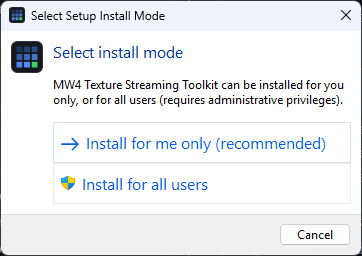
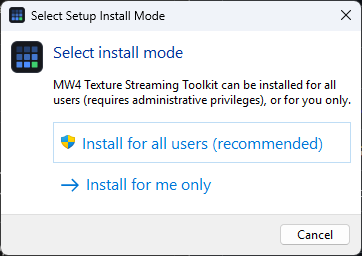
Installer: install for all users by default
The program runs as administrator, so its files should be somewhere only an
administrator can change. Setup now uses PrivilegesRequired=admin with the
install-mode dialog kept: all users (Program Files) is the recommended
choice, "for me only" stays an option. Silent installs default to all
users; /CURRENTUSER selects the current user.

test_installer.py takes --current-user or --all-users and build.bat runs
both (the all-users run needs an elevated window and says so when it skips).
Both refuse to run when a real install or its shortcuts are in the way. The
setup information page, docs, changelog, version 0.2.5-beta and the four
installer screenshots are updated.

diff --git a/packaging/test_installer.py b/packaging/test_installer.py
@@ -1,13 +1,16 @@
 #!/usr/bin/env python3
-"""test_installer.py - installs the built Setup.exe silently (per user, into a temp folder), checks the result, upgrades over it with the hosts block switched on, uninstalls,
-and checks that nothing is left behind. build.bat runs it after the build; by hand:
+"""test_installer.py - installs the built Setup.exe silently (into a temp folder), checks the result, upgrades over it with the hosts block switched on, uninstalls,
+and checks that nothing is left behind. build.bat runs it after the build, once for each way of installing; by hand:
 
-  python packaging/test_installer.py packaging/out/MW4-Texture-Streaming-<version>-Setup.exe
+  python packaging/test_installer.py packaging/out/MW4-Texture-Streaming-<version>-Setup.exe [--current-user | --all-users]
+
+--current-user (the default here) installs for the current user only; --all-users installs for everyone (the installer's default for people) and needs administrator rights,
+so it is skipped (exit 0, with a note) when this window is not elevated.
 
 It never touches the real hosts file or settings: CCS_HOSTS_PATH and CCS_WORK point at temp files, and the installer's own hooks inherit them. The only things outside the
 temp folder are the ones a real install makes (Start menu folder, desktop shortcut, uninstall entry), and they are removed again by the uninstall that this test runs.
 """
-import json, os, shutil, subprocess, sys, tempfile, time, winreg
+import ctypes, json, os, shutil, subprocess, sys, tempfile, time, winreg
 
 APPID = '{6B0F1F2E-7D3A-4C58-9E21-4A9D5C7B3E10}_is1'                       # installer.iss AppId
 APP = 'MW4 Texture Streaming'
@@ -20,9 +23,9 @@ def check(ok, what, detail=''):
         raise SystemExit(f'installer test failed: {what}')
 
 
-def uninstall_entry():
+def uninstall_entry(hive=winreg.HKEY_CURRENT_USER):
     try:
-        with winreg.OpenKey(winreg.HKEY_CURRENT_USER, r'Software\Microsoft\Windows\CurrentVersion\Uninstall' + '\\' + APPID) as k:
+        with winreg.OpenKey(hive, r'Software\Microsoft\Windows\CurrentVersion\Uninstall' + '\\' + APPID) as k:
             return dict(version=winreg.QueryValueEx(k, 'DisplayVersion')[0], uninstall=winreg.QueryValueEx(k, 'UninstallString')[0], where=winreg.QueryValueEx(k, 'InstallLocation')[0])
     except OSError:
         return None
@@ -33,15 +36,21 @@ def shell_folder(name):
 
 
 def main():
-    if len(sys.argv) != 2 or not os.path.exists(sys.argv[1]): sys.exit(__doc__)
+    args = [a for a in sys.argv[1:] if not a.startswith('--')]; flags = [a for a in sys.argv[1:] if a.startswith('--')]
+    if len(args) != 1 or not os.path.exists(args[0]) or any(f not in ('--current-user', '--all-users') for f in flags) or len(flags) > 1: sys.exit(__doc__)
+    allusers = flags == ['--all-users']; who = 'all users' if allusers else 'the current user'; hive = winreg.HKEY_LOCAL_MACHINE if allusers else winreg.HKEY_CURRENT_USER
+    if allusers and not ctypes.windll.shell32.IsUserAnAdmin(): print('skip: the all-users install needs administrator rights and this window has none'); return
+    sys.argv = [sys.argv[0], args[0]]; entry = lambda: uninstall_entry(hive)
     setup = os.path.abspath(sys.argv[1]); tmp = tempfile.mkdtemp(prefix='ccs-inst-'); app = os.path.join(tmp, 'program files', APP)         # a path with spaces, as real ones have
     hosts = os.path.join(tmp, 'hosts'); open(hosts, 'w').write('127.0.0.1 localhost\r\n'); data = os.path.join(tmp, 'data')
     env = dict(os.environ, CCS_HOSTS_PATH=hosts, CCS_WORK=data, PYTHONIOENCODING='utf-8')
-    if uninstall_entry(): sys.exit('an installed copy exists already: uninstall it first so this test does not touch it')
-    menu = os.path.join(os.environ['APPDATA'], 'Microsoft', 'Windows', 'Start Menu', 'Programs', APP); desk = os.path.join(shell_folder('Desktop'), APP + '.lnk')
+    if uninstall_entry(winreg.HKEY_CURRENT_USER) or uninstall_entry(winreg.HKEY_LOCAL_MACHINE): sys.exit('an installed copy exists already: uninstall it first so this test does not touch it')
+    if allusers: menu = os.path.join(os.environ['ProgramData'], 'Microsoft', 'Windows', 'Start Menu', 'Programs', APP); desk = os.path.join(os.environ.get('PUBLIC', 'C:\\Users\\Public'), 'Desktop', APP + '.lnk')
+    else: menu = os.path.join(os.environ['APPDATA'], 'Microsoft', 'Windows', 'Start Menu', 'Programs', APP); desk = os.path.join(shell_folder('Desktop'), APP + '.lnk')
+    if os.path.exists(menu) or os.path.exists(desk): sys.exit(f'shortcuts of an installed copy exist already ({menu} / {desk}): move them aside so this test does not delete them')
     def install(tag):
         log = os.path.join(tmp, tag + '.log')
-        try: return subprocess.run([setup, '/VERYSILENT', '/SUPPRESSMSGBOXES', '/NORESTART', f'/DIR={app}', f'/LOG={log}'], env=env, timeout=150).returncode
+        try: return subprocess.run([setup, '/VERYSILENT', '/SUPPRESSMSGBOXES', '/NORESTART', '/ALLUSERS' if allusers else '/CURRENTUSER', f'/DIR={app}', f'/LOG={log}'], env=env, timeout=150).returncode
         except subprocess.TimeoutExpired:                                         # a hang: show where it is stuck instead of waiting for the CI time limit
             print(f'setup ({tag}) did not finish in 150 s; its log:'); print(open(log, errors='replace').read()[-3500:] if os.path.exists(log) else '(no log)')
             ps = "Get-CimInstance Win32_Process | Where-Object { $_.Name -match 'ccs-cli|MW4|ipconfig|tasklist|netstat|_unins|Setup|python' } | Select-Object ProcessId,ParentProcessId,Name,CommandLine | Format-List | Out-String -Width 300"
@@ -49,11 +58,11 @@ def main():
             subprocess.run(['taskkill', '/F', '/T', '/IM', os.path.basename(setup)], capture_output=True); subprocess.run(['taskkill', '/F', '/T', '/IM', '_unins.tmp'], capture_output=True)
             raise SystemExit(f'installer test failed: setup ({tag}) hung')
     try:
-        print('install'); check(install('install') == 0, 'setup exits 0 (silent, per user, no administrator rights)')
+        print(f'install for {who}'); check(install('install') == 0, f'setup exits 0 (silent, for {who})')
         exe, cli = os.path.join(app, APP + '.exe'), os.path.join(app, 'ccs-cli.exe')
         for rel in (APP + '.exe', 'ccs-cli.exe', 'README.md', 'LICENSE', 'DISCLAIMER.md', 'Restore hosts.bat', 'START HERE.txt', os.path.join('docs', 'GETTING-STARTED.md')): check(os.path.exists(os.path.join(app, rel)), f'installed: {rel}')
         check(not os.path.exists(os.path.join(app, 'portable.txt')), 'no portable.txt (an installed copy keeps its data in the local app data folder)')
-        e = uninstall_entry(); check(bool(e) and e['version'] and os.path.normcase(e['where'].rstrip('\\')) == os.path.normcase(app), f"uninstall entry (Apps & features) for version {e and e['version']}")
+        e = entry(); check(bool(e) and e['version'] and os.path.normcase(e['where'].rstrip('\\')) == os.path.normcase(app), f"uninstall entry (Apps & features) for version {e and e['version']}")
         check(os.path.isdir(menu) and os.path.exists(os.path.join(menu, APP + '.lnk')) and os.path.exists(os.path.join(menu, 'Restore hosts.lnk')), 'Start menu entries')
         check(os.path.exists(desk), 'desktop shortcut (the default task)')
         r = subprocess.run([cli, '--version'], capture_output=True, text=True, env=env, timeout=60); check(e['version'] in r.stdout, 'the installed program runs and reports the same version')
@@ -63,7 +72,7 @@ def main():
         subprocess.run([cli, '--ccs-run', 'ccshosts', 'apply', '--no-flush'], env=env, timeout=60, capture_output=True); check('cod-assets' in open(hosts).read(), 'precondition: hosts block present')
         check(install('upgrade') == 0, 'setup over an existing install exits 0')
         check('cod-assets' not in open(hosts).read() and 'localhost' in open(hosts).read(), 'setup put the hosts file back before replacing files (and kept other lines)')
-        check(os.path.exists(exe) and uninstall_entry() is not None, 'still installed after the upgrade')
+        check(os.path.exists(exe) and entry() is not None, 'still installed after the upgrade')
 
         print('uninstall with the hosts block on')
         subprocess.run([cli, '--ccs-run', 'ccshosts', 'apply', '--no-flush'], env=env, timeout=60, capture_output=True); os.makedirs(data, exist_ok=True); open(os.path.join(data, 'gui_settings.json'), 'w').write('{}')
@@ -72,12 +81,12 @@ def main():
             if not os.path.exists(app): break
             time.sleep(0.5)
         check(not os.path.exists(app), 'program folder is gone')
-        check(uninstall_entry() is None, 'uninstall entry is gone'); check(not os.path.exists(menu), 'Start menu folder is gone'); check(not os.path.exists(desk), 'desktop shortcut is gone')
+        check(entry() is None, 'uninstall entry is gone'); check(not os.path.exists(menu), 'Start menu folder is gone'); check(not os.path.exists(desk), 'desktop shortcut is gone')
         check('cod-assets' not in open(hosts).read() and 'localhost' in open(hosts).read(), 'the hosts block was removed by the uninstaller (other lines kept)')
         check(os.path.exists(os.path.join(data, 'gui_settings.json')), 'settings are kept by a silent uninstall (they are only deleted when the user says yes)')
-        print('all installer checks passed')
+        print(f'all installer checks passed (for {who})')
     finally:
-        e = uninstall_entry()
+        e = entry()
         if e:
             subprocess.run([e['uninstall'].strip('"'), '/VERYSILENT', '/SUPPRESSMSGBOXES', '/NORESTART'], env=env, timeout=300); time.sleep(3)
         shutil.rmtree(tmp, ignore_errors=True)

diff --git a/tools/tests/test_admin.py b/tools/tests/test_admin.py
@@ -50,6 +50,13 @@ class Packaging(unittest.TestCase):
         line = next(l for l in read('packaging', 'installer.iss').splitlines() if l.startswith('Filename: "{app}\\{#AppExe}"') and 'postinstall' in l)
         self.assertIn('shellexec', line); self.assertIn('skipifsilent', line)
 
+    def test_setup_installs_for_all_users_by_default_and_still_offers_the_current_user(self):
+        iss = read('packaging', 'installer.iss'); self.assertRegex(iss, r'(?m)^PrivilegesRequired=admin$'); self.assertRegex(iss, r'(?m)^PrivilegesRequiredOverridesAllowed=dialog$')
+
+    def test_the_build_tests_both_ways_of_installing(self):
+        bat = read('packaging', 'build.bat'); self.assertIn('--current-user', bat); self.assertIn('--all-users', bat)
+        ti = read('packaging', 'test_installer.py'); self.assertIn("'/ALLUSERS' if allusers else '/CURRENTUSER'", ti), self.assertIn('HKEY_LOCAL_MACHINE', ti)
+
     def test_the_build_checks_the_manifest(self):
         self.assertIn('requireAdministrator', read('packaging', 'build.py'))
 

diff --git a/tools/ccslib/version.py b/tools/ccslib/version.py
@@ -1,5 +1,5 @@
 """version.py - version, client identification and the short notice shown by the tools (CLI --help footer, GUI first run)."""
-__version__ = '0.2.4-beta'
+__version__ = '0.2.5-beta'
 REPO_URL = 'https://github.com/voidfnc/mw4-texture-streaming-research'
 USER_AGENT = f'mw4-texture-streaming-toolkit/{__version__} (+{REPO_URL})'
 

diff --git a/README.md b/README.md
@@ -1,6 +1,6 @@
 # MW4 Texture Streaming Toolkit
 
-Beta 0.2.4 · Windows · installer or portable zip (no Python needed) · from source: Python 3.10+, standard library only
+Beta 0.2.5 · Windows · installer or portable zip (no Python needed) · from source: Python 3.10+, standard library only
 
 I started this because the Modern Warfare campaign on my PC looked blurry no matter what I did in the graphics menu. Walls and character gear sat on the lowest
 texture tier even with every setting maxed out. The game is supposed to download higher-resolution texture pieces from a CDN while you play, and on my machine
@@ -49,7 +49,7 @@ Pick one. The files are on the [Releases page](https://github.com/voidfnc/mw4-te
 
 | | What you get | Who it is for |
 |---|---|---|
-| **Installer** (recommended) | `MW4-Texture-Streaming-<version>-Setup.exe`. Double-click, Next, Install. Installs for you only (setup needs no administrator rights); "for all users" is an option on the first screen. The program itself asks for administrator permission when it starts. Start menu entries, optional desktop shortcut, uninstall in *Apps & features*. | Most people. Needs no Python. |
+| **Installer** (recommended) | `MW4-Texture-Streaming-<version>-Setup.exe`. Double-click, Next, Install. Installs for all users by default (Program Files, one Windows permission prompt); "for me only" (no administrator rights, in your own profile) is an option on the first screen. The program itself also asks for administrator permission when it starts. Start menu entries, optional desktop shortcut, uninstall in *Apps & features*. | Most people. Needs no Python. |
 | **Portable zip** | `MW4-Texture-Streaming-<version>-win64-portable.zip`. Unzip anywhere and run `MW4 Texture Streaming.exe`. Nothing is installed; settings stay in a `data` folder next to it; delete the folder to remove it. | Locked-down PCs, a USB stick, trying it out. |
 | **From source** | Clone this repository and run `python tools\ccsgui.py` (Python 3.10+, standard library only). See [Running from source](#running-from-source). | Developers and advanced users. Everything is in this repository. |
 
@@ -58,16 +58,16 @@ Windows may say "Windows protected your PC" (SmartScreen) because the files are 
 
 ## What it looks like
 
-**The installer** asks whether to install for you only (the default, no administrator rights) or for all users, shows the notice and licence, says what it will and will not do, and
+**The installer** asks whether to install for all users (the default: Program Files, one permission prompt) or for you only (no administrator rights), shows the notice and licence, says what it will and will not do, and
 offers the shortcuts. Cancelling at any point installs nothing.
 
-![Install mode: for me only (recommended) or for all users](docs/images/installer-0-mode.png)
+![Install mode: for all users (recommended) or for me only](docs/images/installer-0-mode.png)
 ![Notice and licence page](docs/images/installer-1-license.png)
 ![What setup does and does not do](docs/images/installer-2-info.png)
 ![Shortcut options](docs/images/installer-3-options.png)
 
 **The program.** Screenshots of version **0.2.3-beta** on Windows 11. They show demo numbers from a throw-away folder: no game was running, and there is no game imagery in them. They are
-regenerated when the windows change (`python tools\make_screenshots.py`; the installer pages with `python packaging\shoot_installer.py`); the version in the title bar is the version they were taken with. Later versions start with an administrator prompt, so the installer's information page and the first line of the activity log read slightly differently there.
+regenerated when the windows change (`python tools\make_screenshots.py`; the installer pages with `python packaging\shoot_installer.py`); the version in the title bar is the version they were taken with. Later versions start with an administrator prompt, so the first line of the activity log reads slightly differently there. The four installer pages above are from 0.2.5-beta.
 
 **Guided setup in Simple view**: the checklist ticks the steps it can verify and highlights the next button (here *Start session*).
 
@@ -112,8 +112,9 @@ files in the game folder. With the rights from the start, none of these asks aga
 game setup you confirm, and its own files. If you decline the prompt the program still starts and asks for permission for each hosts-file change, as before. From source, the
 window relaunches itself elevated once (`CCS_NO_ELEVATE=1` or `--no-elevate` keeps it unelevated). The setup program itself runs without administrator rights.
 
-Because the program runs elevated, whoever can change its files can make it run their code with those rights. The installer's default folder is inside your own profile, so other
-programs that run as you could replace those files; if that matters to you, install for all users (Program Files), or keep the portable zip in a folder only you can write to.
+Because the program runs elevated, whoever can change its files can make it run their code with those rights. That is why the installer's default is to install for all users (Program Files):
+only an administrator can change files there. If you choose "for me only", the files are inside your own profile and other programs that run as you could replace them; the portable zip
+has the same property, so keep it in a folder only you can write to.
 
 ## If something doesn't work
 

diff --git a/docs/USAGE.md b/docs/USAGE.md
@@ -9,7 +9,7 @@ that you have to accept once per version; on the command line the same thing is 
 
 | | Program | Settings, logs, reports (`work` below) | Helpers and command line |
 |---|---|---|---|
-| Installer | `%LOCALAPPDATA%\Programs\MW4 Texture Streaming` (or Program Files for "all users") | `%LOCALAPPDATA%\MW4TextureStreaming` | `ccs-cli.exe --ccs-run <tool> ...` |
+| Installer | `C:\Program Files\MW4 Texture Streaming` (all users, the default) or `%LOCALAPPDATA%\Programs\MW4 Texture Streaming` ("for me only") | `%LOCALAPPDATA%\MW4TextureStreaming` | `ccs-cli.exe --ccs-run <tool> ...` |
 | Portable zip | where you unzipped it | a `data` folder next to the program (because of `portable.txt`) | `ccs-cli.exe --ccs-run <tool> ...` |
 | Source | the cloned repository | `tools\work` | `python tools\<tool>.py ...` |
 
@@ -18,7 +18,7 @@ stops the proxy and disk guard and makes a shortcut, without touching the hosts 
 
 **Update:** run the newer Setup.exe over the old one (the zip: unzip over the old folder, keeping `data`). Setup stops the helpers and puts the hosts file back first if a session is on.
 **Uninstall:** *Apps & features*. If the hosts override is on, it is removed first; you are asked before settings are deleted; a texture mirror and the game folder are never deleted.
-**Silent install** (for scripts): `Setup.exe /VERYSILENT /DIR="D:\Tools\MW4 Texture Streaming" /MERGETASKS="!desktopicon"`; add `/ALLUSERS` for all users.
+**Silent install** (for scripts): `Setup.exe /VERYSILENT /DIR="D:\Tools\MW4 Texture Streaming" /MERGETASKS="!desktopicon"`; all users is the default (administrator rights needed); add `/CURRENTUSER` for the current user only, without administrator rights. If you change from one to the other, uninstall the old copy first.
 
 ## Guided setup (optional)
 

diff --git a/docs/GETTING-STARTED.md b/docs/GETTING-STARTED.md
@@ -14,8 +14,8 @@ also a short test to compare it on your own PC.
 
 Download from the [Releases page](https://github.com/voidfnc/mw4-texture-streaming-research/releases) and pick one:
 
-- **The installer** (`...-Setup.exe`, recommended): double-click, accept the notice, press Next and Install. It installs for you only, so setup itself does not ask for an administrator
-  password; "for all users" is an option on its first screen. The program asks for administrator permission each time it starts (the *UAC prompt*): answer Yes. It adds a Start menu entry (and a desktop shortcut if you leave that ticked) and a normal uninstall entry in
+- **The installer** (`...-Setup.exe`, recommended): double-click, accept the notice, press Next and Install. It installs for all users by default (in Program Files, with one Windows permission prompt);
+  "for me only" is an option on its first screen and needs no administrator rights. The program asks for administrator permission each time it starts (the *UAC prompt*): answer Yes. It adds a Start menu entry (and a desktop shortcut if you leave that ticked) and a normal uninstall entry in
   *Apps & features*. It does not touch your hosts file or your game folder.
 - **The portable zip** (`...-portable.zip`): unzip it anywhere and double-click `MW4 Texture Streaming.exe`. Nothing is installed, and your settings stay in a `data` folder next to it.
 - **From source**, if you prefer to run the code yourself: see the README.

diff --git a/CHANGELOG.md b/CHANGELOG.md
@@ -1,5 +1,16 @@
 # Changelog
 
+## 0.2.5-beta
+**The installer installs for all users by default.** "For me only" stays an option on its first screen.
+
+- **Program Files by default.** The program runs as administrator, so its files should be somewhere only an administrator can change: setup now asks for one Windows permission prompt and
+  installs into Program Files for all users (uninstall entry and shortcuts for everyone). "For me only" installs into your own profile without administrator rights, as before; the
+  README's *Administrator rights* section says what that choice means. Silent installs: all users is the default, `/CURRENTUSER` for the current user only. If you switch from one to the
+  other, uninstall the old copy first.
+- **The installer test covers both.** `packaging\build.bat` installs, upgrades (with the hosts block on) and uninstalls once for the current user and once for all users (when the build
+  window is elevated), and refuses to run if shortcuts of a real installed copy are in the way.
+- The installer's four README screenshots are retaken for this version; the program's screenshots are still from 0.2.3-beta.
+
 ## 0.2.4-beta
 **The program runs as administrator by default.** It asks for permission once, when it starts, instead of per action.
 
